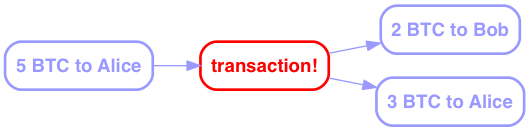
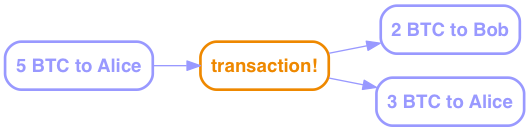
Minor tweaks, changed image colors

Changed region(s): [[0.3629, 0.3359, 0.6352, 0.7023], [0.3932, 0.3053, 0.6049, 0.3359]]

diff --git a/index.html b/index.html
@@ -4,13 +4,13 @@
 <meta charset="UTF-8">
 <!--[if IE]><meta http-equiv="X-UA-Compatible" content="IE=edge"><![endif]-->
 <meta name="viewport" content="width=device-width, initial-scale=1.0">
-<meta name="generator" content="Asciidoctor 1.5.3">
+<meta name="generator" content="Asciidoctor 1.5.2">
 <title>Bitcoin &amp; Blockchain, 'Splain&#8217;d</title>
-<link rel="stylesheet" href="https://fonts.googleapis.com/css?family=Open+Sans:300,300italic,400,400italic,600,600italic%7CNoto+Serif:400,400italic,700,700italic%7CDroid+Sans+Mono:400,700">
+<link rel="stylesheet" href="https://fonts.googleapis.com/css?family=Open+Sans:300,300italic,400,400italic,600,600italic%7CNoto+Serif:400,400italic,700,700italic%7CDroid+Sans+Mono:400">
 <style>
 /* Asciidoctor default stylesheet | MIT License | http://asciidoctor.org */
-/* Remove comment around @import statement below when using as a custom stylesheet */
-/*@import "https://fonts.googleapis.com/css?family=Open+Sans:300,300italic,400,400italic,600,600italic%7CNoto+Serif:400,400italic,700,700italic%7CDroid+Sans+Mono:400,700";*/
+/* Remove the comments around the @import statement below when using this as a custom stylesheet */
+/*@import "https://fonts.googleapis.com/css?family=Open+Sans:300,300italic,400,400italic,600,600italic%7CNoto+Serif:400,400italic,700,700italic%7CDroid+Sans+Mono:400";*/
 article,aside,details,figcaption,figure,footer,header,hgroup,main,nav,section,summary{display:block}
 audio,canvas,video{display:inline-block}
 audio:not([controls]){display:none;height:0}
@@ -57,6 +57,7 @@ a:hover{cursor:pointer}
 img,object,embed{max-width:100%;height:auto}
 object,embed{height:100%}
 img{-ms-interpolation-mode:bicubic}
+#map_canvas img,#map_canvas embed,#map_canvas object,.map_canvas img,.map_canvas embed,.map_canvas object{max-width:none!important}
 .left{float:left!important}
 .right{float:right!important}
 .text-left{text-align:left!important}
@@ -64,12 +65,10 @@ img{-ms-interpolation-mode:bicubic}
 .text-center{text-align:center!important}
 .text-justify{text-align:justify!important}
 .hide{display:none}
-body{-webkit-font-smoothing:antialiased}
-img,object,svg{display:inline-block;vertical-align:middle}
+.antialiased,body{-webkit-font-smoothing:antialiased}
+img{display:inline-block;vertical-align:middle}
 textarea{height:auto;min-height:50px}
 select{width:100%}
-.center{margin-left:auto;margin-right:auto}
-.spread{width:100%}
 p.lead,.paragraph.lead>p,#preamble>.sectionbody>.paragraph:first-of-type p{font-size:1.21875em;line-height:1.6}
 .subheader,.admonitionblock td.content>.title,.audioblock>.title,.exampleblock>.title,.imageblock>.title,.listingblock>.title,.literalblock>.title,.stemblock>.title,.openblock>.title,.paragraph>.title,.quoteblock>.title,table.tableblock>.title,.verseblock>.title,.videoblock>.title,.dlist>.title,.olist>.title,.ulist>.title,.qlist>.title,.hdlist>.title{line-height:1.45;color:#7a2518;font-weight:400;margin-top:0;margin-bottom:.25em}
 div,dl,dt,dd,ul,ol,li,h1,h2,h3,#toctitle,.sidebarblock>.content>.title,h4,h5,h6,pre,form,p,blockquote,th,td{margin:0;padding:0;direction:ltr}
@@ -112,14 +111,12 @@ blockquote,blockquote p{line-height:1.6;color:rgba(0,0,0,.85)}
 h1{font-size:2.75em}
 h2{font-size:2.3125em}
 h3,#toctitle,.sidebarblock>.content>.title{font-size:1.6875em}
-h4{font-size:1.4375em}}
-table{background:#fff;margin-bottom:1.25em;border:solid 1px #dedede}
+h4{font-size:1.4375em}}table{background:#fff;margin-bottom:1.25em;border:solid 1px #dedede}
 table thead,table tfoot{background:#f7f8f7;font-weight:bold}
 table thead tr th,table thead tr td,table tfoot tr th,table tfoot tr td{padding:.5em .625em .625em;font-size:inherit;color:rgba(0,0,0,.8);text-align:left}
 table tr th,table tr td{padding:.5625em .625em;font-size:inherit;color:rgba(0,0,0,.8)}
 table tr.even,table tr.alt,table tr:nth-of-type(even){background:#f8f8f7}
 table thead tr th,table tfoot tr th,table tbody tr td,table tr td,table tfoot tr td{display:table-cell;line-height:1.6}
-body{tab-size:4}
 h1,h2,h3,#toctitle,.sidebarblock>.content>.title,h4,h5,h6{line-height:1.2;word-spacing:-.05em}
 h1 strong,h2 strong,h3 strong,#toctitle strong,.sidebarblock>.content>.title strong,h4 strong,h5 strong,h6 strong{font-weight:400}
 .clearfix:before,.clearfix:after,.float-group:before,.float-group:after{content:" ";display:table}
@@ -127,7 +124,7 @@ h1 strong,h2 strong,h3 strong,#toctitle strong,.sidebarblock>.content>.title str
 *:not(pre)>code{font-size:.9375em;font-style:normal!important;letter-spacing:0;padding:.1em .5ex;word-spacing:-.15em;background-color:#f7f7f8;-webkit-border-radius:4px;border-radius:4px;line-height:1.45;text-rendering:optimizeSpeed}
 pre,pre>code{line-height:1.45;color:rgba(0,0,0,.9);font-family:"Droid Sans Mono","DejaVu Sans Mono",monospace;font-weight:400;text-rendering:optimizeSpeed}
 .keyseq{color:rgba(51,51,51,.8)}
-kbd{font-family:"Droid Sans Mono","DejaVu Sans Mono",monospace;display:inline-block;color:rgba(0,0,0,.8);font-size:.65em;line-height:1.45;background-color:#f7f7f7;border:1px solid #ccc;-webkit-border-radius:3px;border-radius:3px;-webkit-box-shadow:0 1px 0 rgba(0,0,0,.2),0 0 0 .1em white inset;box-shadow:0 1px 0 rgba(0,0,0,.2),0 0 0 .1em #fff inset;margin:0 .15em;padding:.2em .5em;vertical-align:middle;position:relative;top:-.1em;white-space:nowrap}
+kbd{display:inline-block;color:rgba(0,0,0,.8);font-size:.75em;line-height:1.4;background-color:#f7f7f7;border:1px solid #ccc;-webkit-border-radius:3px;border-radius:3px;-webkit-box-shadow:0 1px 0 rgba(0,0,0,.2),0 0 0 .1em white inset;box-shadow:0 1px 0 rgba(0,0,0,.2),0 0 0 .1em #fff inset;margin:-.15em .15em 0 .15em;padding:.2em .6em .2em .5em;vertical-align:middle;white-space:nowrap}
 .keyseq kbd:first-child{margin-left:0}
 .keyseq kbd:last-child{margin-right:0}
 .menuseq,.menu{color:rgba(0,0,0,.8)}
@@ -158,33 +155,29 @@ p a>code:hover{color:rgba(0,0,0,.9)}
 #toc ul.sectlevel0>li>a{font-style:italic}
 #toc ul.sectlevel0 ul.sectlevel1{margin:.5em 0}
 #toc ul{font-family:"Open Sans","DejaVu Sans",sans-serif;list-style-type:none}
-#toc li{line-height:1.3334;margin-top:.3334em}
 #toc a{text-decoration:none}
 #toc a:active{text-decoration:underline}
 #toctitle{color:#7a2518;font-size:1.2em}
 @media only screen and (min-width:768px){#toctitle{font-size:1.375em}
 body.toc2{padding-left:15em;padding-right:0}
 #toc.toc2{margin-top:0!important;background-color:#f8f8f7;position:fixed;width:15em;left:0;top:0;border-right:1px solid #efefed;border-top-width:0!important;border-bottom-width:0!important;z-index:1000;padding:1.25em 1em;height:100%;overflow:auto}
-#toc.toc2 #toctitle{margin-top:0;margin-bottom:.8rem;font-size:1.2em}
+#toc.toc2 #toctitle{margin-top:0;font-size:1.2em}
 #toc.toc2>ul{font-size:.9em;margin-bottom:0}
 #toc.toc2 ul ul{margin-left:0;padding-left:1em}
 #toc.toc2 ul.sectlevel0 ul.sectlevel1{padding-left:0;margin-top:.5em;margin-bottom:.5em}
 body.toc2.toc-right{padding-left:0;padding-right:15em}
-body.toc2.toc-right #toc.toc2{border-right-width:0;border-left:1px solid #efefed;left:auto;right:0}}
-@media only screen and (min-width:1280px){body.toc2{padding-left:20em;padding-right:0}
+body.toc2.toc-right #toc.toc2{border-right-width:0;border-left:1px solid #efefed;left:auto;right:0}}@media only screen and (min-width:1280px){body.toc2{padding-left:20em;padding-right:0}
 #toc.toc2{width:20em}
 #toc.toc2 #toctitle{font-size:1.375em}
 #toc.toc2>ul{font-size:.95em}
 #toc.toc2 ul ul{padding-left:1.25em}
-body.toc2.toc-right{padding-left:0;padding-right:20em}}
-#content #toc{border-style:solid;border-width:1px;border-color:#e0e0dc;margin-bottom:1.25em;padding:1.25em;background:#f8f8f7;-webkit-border-radius:4px;border-radius:4px}
+body.toc2.toc-right{padding-left:0;padding-right:20em}}#content #toc{border-style:solid;border-width:1px;border-color:#e0e0dc;margin-bottom:1.25em;padding:1.25em;background:#f8f8f7;-webkit-border-radius:4px;border-radius:4px}
 #content #toc>:first-child{margin-top:0}
 #content #toc>:last-child{margin-bottom:0}
 #footer{max-width:100%;background-color:rgba(0,0,0,.8);padding:1.25em}
 #footer-text{color:rgba(255,255,255,.8);line-height:1.44}
 .sect1{padding-bottom:.625em}
-@media only screen and (min-width:768px){.sect1{padding-bottom:1.25em}}
-.sect1+.sect1{border-top:1px solid #efefed}
+@media only screen and (min-width:768px){.sect1{padding-bottom:1.25em}}.sect1+.sect1{border-top:1px solid #efefed}
 #content h1>a.anchor,h2>a.anchor,h3>a.anchor,#toctitle>a.anchor,.sidebarblock>.content>.title>a.anchor,h4>a.anchor,h5>a.anchor,h6>a.anchor{position:absolute;z-index:1001;width:1.5ex;margin-left:-1.5ex;display:block;text-decoration:none!important;visibility:hidden;text-align:center;font-weight:400}
 #content h1>a.anchor:before,h2>a.anchor:before,h3>a.anchor:before,#toctitle>a.anchor:before,.sidebarblock>.content>.title>a.anchor:before,h4>a.anchor:before,h5>a.anchor:before,h6>a.anchor:before{content:"\00A7";font-size:.85em;display:block;padding-top:.1em}
 #content h1:hover>a.anchor,#content h1>a.anchor:hover,h2:hover>a.anchor,h2>a.anchor:hover,h3:hover>a.anchor,#toctitle:hover>a.anchor,.sidebarblock>.content>.title:hover>a.anchor,h3>a.anchor:hover,#toctitle>a.anchor:hover,.sidebarblock>.content>.title>a.anchor:hover,h4:hover>a.anchor,h4>a.anchor:hover,h5:hover>a.anchor,h5>a.anchor:hover,h6:hover>a.anchor,h6>a.anchor:hover{visibility:visible}
@@ -213,9 +206,7 @@ table.tableblock #preamble>.sectionbody>.paragraph:first-of-type p{font-size:inh
 .sidebarblock .literalblock pre,.sidebarblock .listingblock pre:not(.highlight),.sidebarblock .listingblock pre[class="highlight"],.sidebarblock .listingblock pre[class^="highlight "],.sidebarblock .listingblock pre.CodeRay,.sidebarblock .listingblock pre.prettyprint{background:#f2f1f1}
 .literalblock pre,.literalblock pre[class],.listingblock pre,.listingblock pre[class]{-webkit-border-radius:4px;border-radius:4px;word-wrap:break-word;padding:1em;font-size:.8125em}
 .literalblock pre.nowrap,.literalblock pre[class].nowrap,.listingblock pre.nowrap,.listingblock pre[class].nowrap{overflow-x:auto;white-space:pre;word-wrap:normal}
-@media only screen and (min-width:768px){.literalblock pre,.literalblock pre[class],.listingblock pre,.listingblock pre[class]{font-size:.90625em}}
-@media only screen and (min-width:1280px){.literalblock pre,.literalblock pre[class],.listingblock pre,.listingblock pre[class]{font-size:1em}}
-.literalblock.output pre{color:#f7f7f8;background-color:rgba(0,0,0,.9)}
+@media only screen and (min-width:768px){.literalblock pre,.literalblock pre[class],.listingblock pre,.listingblock pre[class]{font-size:.90625em}}@media only screen and (min-width:1280px){.literalblock pre,.literalblock pre[class],.listingblock pre,.listingblock pre[class]{font-size:1em}}.literalblock.output pre{color:#f7f7f8;background-color:rgba(0,0,0,.9)}
 .listingblock pre.highlightjs{padding:0}
 .listingblock pre.highlightjs>code{padding:1em;-webkit-border-radius:4px;border-radius:4px}
 .listingblock pre.prettyprint{border-width:0}
@@ -225,7 +216,7 @@ table.tableblock #preamble>.sectionbody>.paragraph:first-of-type p{font-size:inh
 .listingblock.terminal pre .command:before{content:attr(data-prompt);padding-right:.5em;color:#999}
 .listingblock.terminal pre .command:not([data-prompt]):before{content:"$"}
 table.pyhltable{border-collapse:separate;border:0;margin-bottom:0;background:none}
-table.pyhltable td{vertical-align:top;padding-top:0;padding-bottom:0;line-height:1.45}
+table.pyhltable td{vertical-align:top;padding-top:0;padding-bottom:0}
 table.pyhltable td.code{padding-left:.75em;padding-right:0}
 pre.pygments .lineno,table.pyhltable td:not(.code){color:#999;padding-left:0;padding-right:.5em;border-right:1px solid #ddddd8}
 pre.pygments .lineno{display:inline-block;margin-right:.25em}
@@ -246,12 +237,13 @@ table.pyhltable .linenodiv{background:none!important;padding-right:0!important}
 .verseblock .attribution{margin-top:1.25rem;margin-left:.5ex}
 .quoteblock .attribution,.verseblock .attribution{font-size:.9375em;line-height:1.45;font-style:italic}
 .quoteblock .attribution br,.verseblock .attribution br{display:none}
-.quoteblock .attribution cite,.verseblock .attribution cite{display:block;letter-spacing:-.025em;color:rgba(0,0,0,.6)}
+.quoteblock .attribution cite,.verseblock .attribution cite{display:block;letter-spacing:-.05em;color:rgba(0,0,0,.6)}
 .quoteblock.abstract{margin:0 0 1.25em 0;display:block}
 .quoteblock.abstract blockquote,.quoteblock.abstract blockquote p{text-align:left;word-spacing:0}
 .quoteblock.abstract blockquote:before,.quoteblock.abstract blockquote p:first-of-type:before{display:none}
 table.tableblock{max-width:100%;border-collapse:separate}
 table.tableblock td>.paragraph:last-child p>p:last-child,table.tableblock th>p:last-child,table.tableblock td>p:last-child{margin-bottom:0}
+table.spread{width:100%}
 table.tableblock,th.tableblock,td.tableblock{border:0 solid #dedede}
 table.grid-all th.tableblock,table.grid-all td.tableblock{border-width:0 1px 1px 0}
 table.grid-all tfoot>tr>th.tableblock,table.grid-all tfoot>tr>td.tableblock{border-width:1px 1px 0 0}
@@ -297,8 +289,8 @@ ol.upperroman{list-style-type:upper-roman}
 ol.lowergreek{list-style-type:lower-greek}
 .hdlist>table,.colist>table{border:0;background:none}
 .hdlist>table>tbody>tr,.colist>table>tbody>tr{background:none}
-td.hdlist1,td.hdlist2{vertical-align:top;padding:0 .625em}
-td.hdlist1{font-weight:bold;padding-bottom:1.25em}
+td.hdlist1{padding-right:.75em;font-weight:bold}
+td.hdlist1,td.hdlist2{vertical-align:top}
 .literalblock+.colist,.listingblock+.colist{margin-top:-.5em}
 .colist>table tr>td:first-of-type{padding:0 .75em;line-height:1}
 .colist>table tr>td:last-of-type{padding:.25em 0}
@@ -311,14 +303,13 @@ td.hdlist1{font-weight:bold;padding-bottom:1.25em}
 .image.left,.image.right{margin-top:.25em;margin-bottom:.25em;display:inline-block;line-height:0}
 .image.left{margin-right:.625em}
 .image.right{margin-left:.625em}
-a.image{text-decoration:none;display:inline-block}
-a.image object{pointer-events:none}
-sup.footnote,sup.footnoteref{font-size:.875em;position:static;vertical-align:super}
-sup.footnote a,sup.footnoteref a{text-decoration:none}
-sup.footnote a:active,sup.footnoteref a:active{text-decoration:underline}
+a.image{text-decoration:none}
+span.footnote,span.footnoteref{vertical-align:super;font-size:.875em}
+span.footnote a,span.footnoteref a{text-decoration:none}
+span.footnote a:active,span.footnoteref a:active{text-decoration:underline}
 #footnotes{padding-top:.75em;padding-bottom:.75em;margin-bottom:.625em}
 #footnotes hr{width:20%;min-width:6.25em;margin:-.25em 0 .75em 0;border-width:1px 0 0 0}
-#footnotes .footnote{padding:0 .375em 0 .225em;line-height:1.3334;font-size:.875em;margin-left:1.2em;text-indent:-1.05em;margin-bottom:.2em}
+#footnotes .footnote{padding:0 .375em;line-height:1.3;font-size:.875em;margin-left:1.2em;text-indent:-1.2em;margin-bottom:.2em}
 #footnotes .footnote a:first-of-type{font-weight:bold;text-decoration:none}
 #footnotes .footnote:last-of-type{margin-bottom:0}
 #content #footnotes{margin-top:-.625em;margin-bottom:0;padding:.75em 0}
@@ -376,10 +367,11 @@ span.icon>.fa{cursor:default}
 pre .conum[data-value]{position:relative;top:-.125em}
 b.conum *{color:inherit!important}
 .conum:not([data-value]):empty{display:none}
-dt,th.tableblock,td.content,div.footnote{text-rendering:optimizeLegibility}
-h1,h2,p,td.content,span.alt{letter-spacing:-.01em}
-p strong,td.content strong,div.footnote strong{letter-spacing:-.005em}
-p,blockquote,dt,td.content,span.alt{font-size:1.0625rem}
+h1,h2{letter-spacing:-.01em}
+dt,th.tableblock,td.content{text-rendering:optimizeLegibility}
+p,td.content{letter-spacing:-.01em}
+p strong,td.content strong{letter-spacing:-.005em}
+p,blockquote,dt,td.content{font-size:1.0625rem}
 p{margin-bottom:1.25rem}
 .sidebarblock p,.sidebarblock dt,.sidebarblock td.content,p.tableblock{font-size:1em}
 .exampleblock>.content{background-color:#fffef7;border-color:#e0e0dc;-webkit-box-shadow:0 1px 4px #e0e0dc;box-shadow:0 1px 4px #e0e0dc}
@@ -390,9 +382,9 @@ a{color:inherit!important;text-decoration:underline!important}
 a.bare,a[href^="#"],a[href^="mailto:"]{text-decoration:none!important}
 a[href^="http:"]:not(.bare):after,a[href^="https:"]:not(.bare):after{content:"(" attr(href) ")";display:inline-block;font-size:.875em;padding-left:.25em}
 abbr[title]:after{content:" (" attr(title) ")"}
-pre,blockquote,tr,img,object,svg{page-break-inside:avoid}
+pre,blockquote,tr,img{page-break-inside:avoid}
 thead{display:table-header-group}
-svg{max-width:100%}
+img{max-width:100%!important}
 p,blockquote,dt,td.content{font-size:1em;orphans:3;widows:3}
 h2,h3,#toctitle,.sidebarblock>.content>.title{page-break-after:avoid}
 #toc,.sidebarblock,.exampleblock>.content{background:none!important}
@@ -713,11 +705,11 @@ The bitcoin you "have" is the sum of all the transfers to you.</p>
 </div>
 <div class="paragraph">
 <p>When you make a payment, you don&#8217;t have a pool of money to pay it out of; you have a bunch of individual transactions.
-So you have to say something like "take that 5 BTC from transaction 13a16e415d and give it to 72fc388ab6."</p>
+So you have to say something like "take that 5 BTC from transaction 13a16&#8230;&#8203; and give it to 72fc3&#8230;&#8203;."</p>
 </div>
 <div class="paragraph">
 <p>When you "spend" a transaction like that, you have to spend all of it, but you can split it up and pay some of it back to yourself.
-"From transaction 13a16e415d give 2 BTC to 72fc388ab6 and 3 BTC to 43b46&#8230;&#8203;."</p>
+"From transaction 13a16&#8230;&#8203; give 2 BTC to 72fc3&#8230;&#8203; and 3 BTC to 43b46&#8230;&#8203;."</p>
 </div>
 <div class="paragraph">
 <p><span class="image"><img src="img/transactions-1.png" alt="split payment"></span></p>
@@ -748,7 +740,7 @@ Every input is the output from another transaction.</p>
 <p>The transaction output doesn&#8217;t just have a public key; it has a little executable script that is used to verify any claims to it.
 The script takes a public key and a signature of its own transaction as inputs - that&#8217;s what you have to provide to claim it.
 The script checks that the public key is the one expected, uses that public key to decrypt the signature provided, and compares that to the hash of its own transaction.
-That proves that the claimant has the private key matching the pubic key required.
+That proves that the claimant has the private key matching the public key required.
 The process is:</p>
 </div>
 <div class="paragraph">
@@ -891,7 +883,7 @@ They stop work on their block, discard any transactions that were added in the n
 </div>
 <div id="footer">
 <div id="footer-text">
-Last updated 2016-05-16 11:07:16 EDT
+Last updated 2016-05-17 18:06:16 EDT
 </div>
 </div>
 </body>
